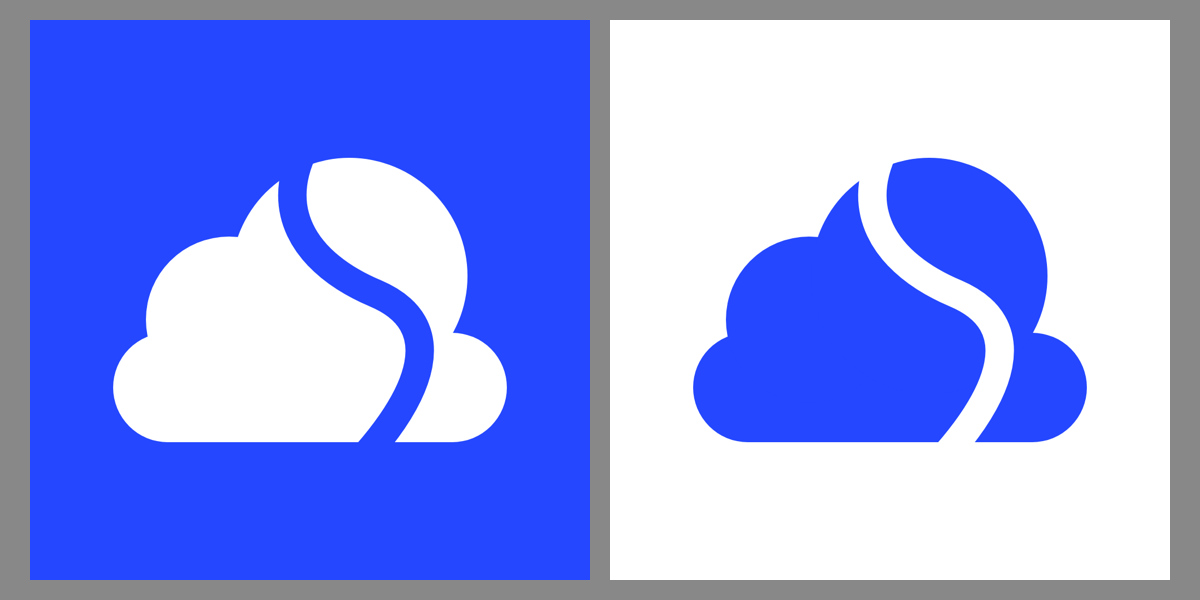
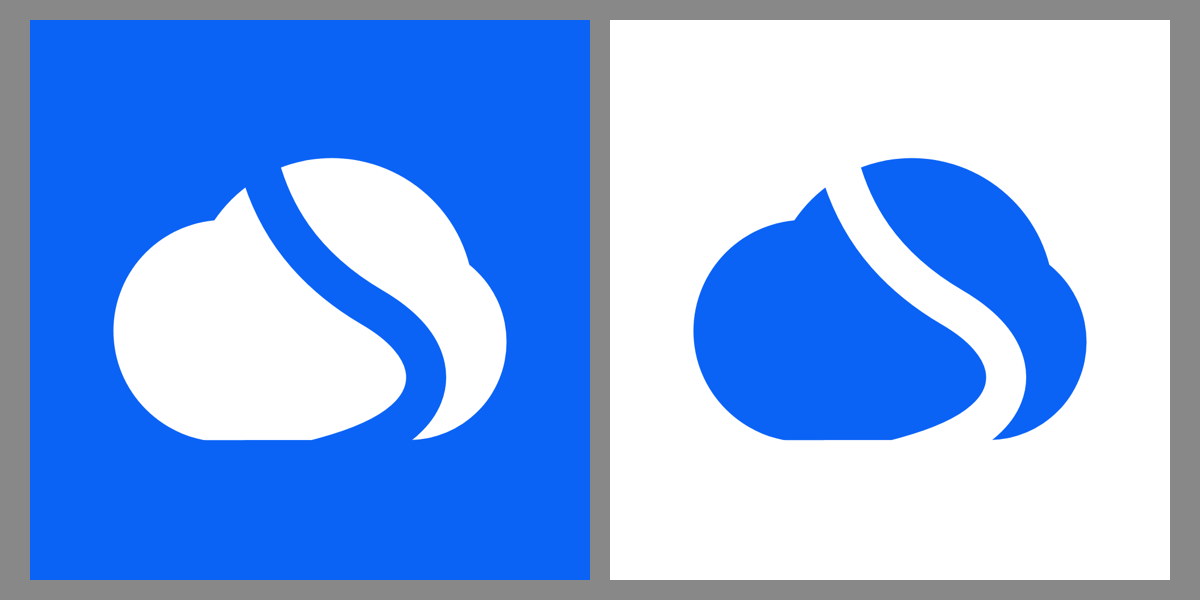
SatisfyCloud: rebuild mark faithfully from the chosen reference proportions
Claude-Session: https://claude.ai/code/session_01HRGDra9WXwvMnTFnzRxiJG

diff --git a/satisfycloud/gen5.py b/satisfycloud/gen5.py
@@ -1,0 +1,14 @@
+import sys
+B="#0B63F6"
+# silhouette in reference coordinates (400 canvas)
+CP='<circle cx="155" cy="231" r="61"/><circle cx="214" cy="214" r="78"/><circle cx="256" cy="237" r="54"/><rect x="155" y="200" width="101" height="91"/>'
+CLIPBOT='<rect x="0" y="0" width="400" height="291"/>'
+GAP="M170 118 C176 168 202 198 236 218 C272 239 272 264 254 280 C244 289 228 296 204 302"
+def mk(name,fg,bg=None,scale=1.3,gap=22):
+    bgr=f'<rect width="400" height="400" fill="{bg}"/>' if bg else ''
+    tf=f'translate(200,200) scale({scale}) translate(-202,-214)'
+    open(name,"w").write(f'''<svg xmlns="http://www.w3.org/2000/svg" viewBox="0 0 400 400"><title>SatisfyCloud mark</title><defs><clipPath id="b"><rect x="0" y="0" width="400" height="291"/></clipPath><mask id="m"><rect width="400" height="400" fill="#fff"/><path d="{GAP}" fill="none" stroke="#000" stroke-width="{gap}"/></mask></defs>{bgr}<g transform="{tf}"><g mask="url(#m)" clip-path="url(#b)" fill="{fg}">{CP}</g></g></svg>''')
+mk("ref-test.svg",B,"#fff",scale=1)
+mk("logo-white-on-brand.svg","#fff",B)
+mk("logo-brand-on-white.svg",B,"#fff")
+mk("logo-transparent.svg",B)
